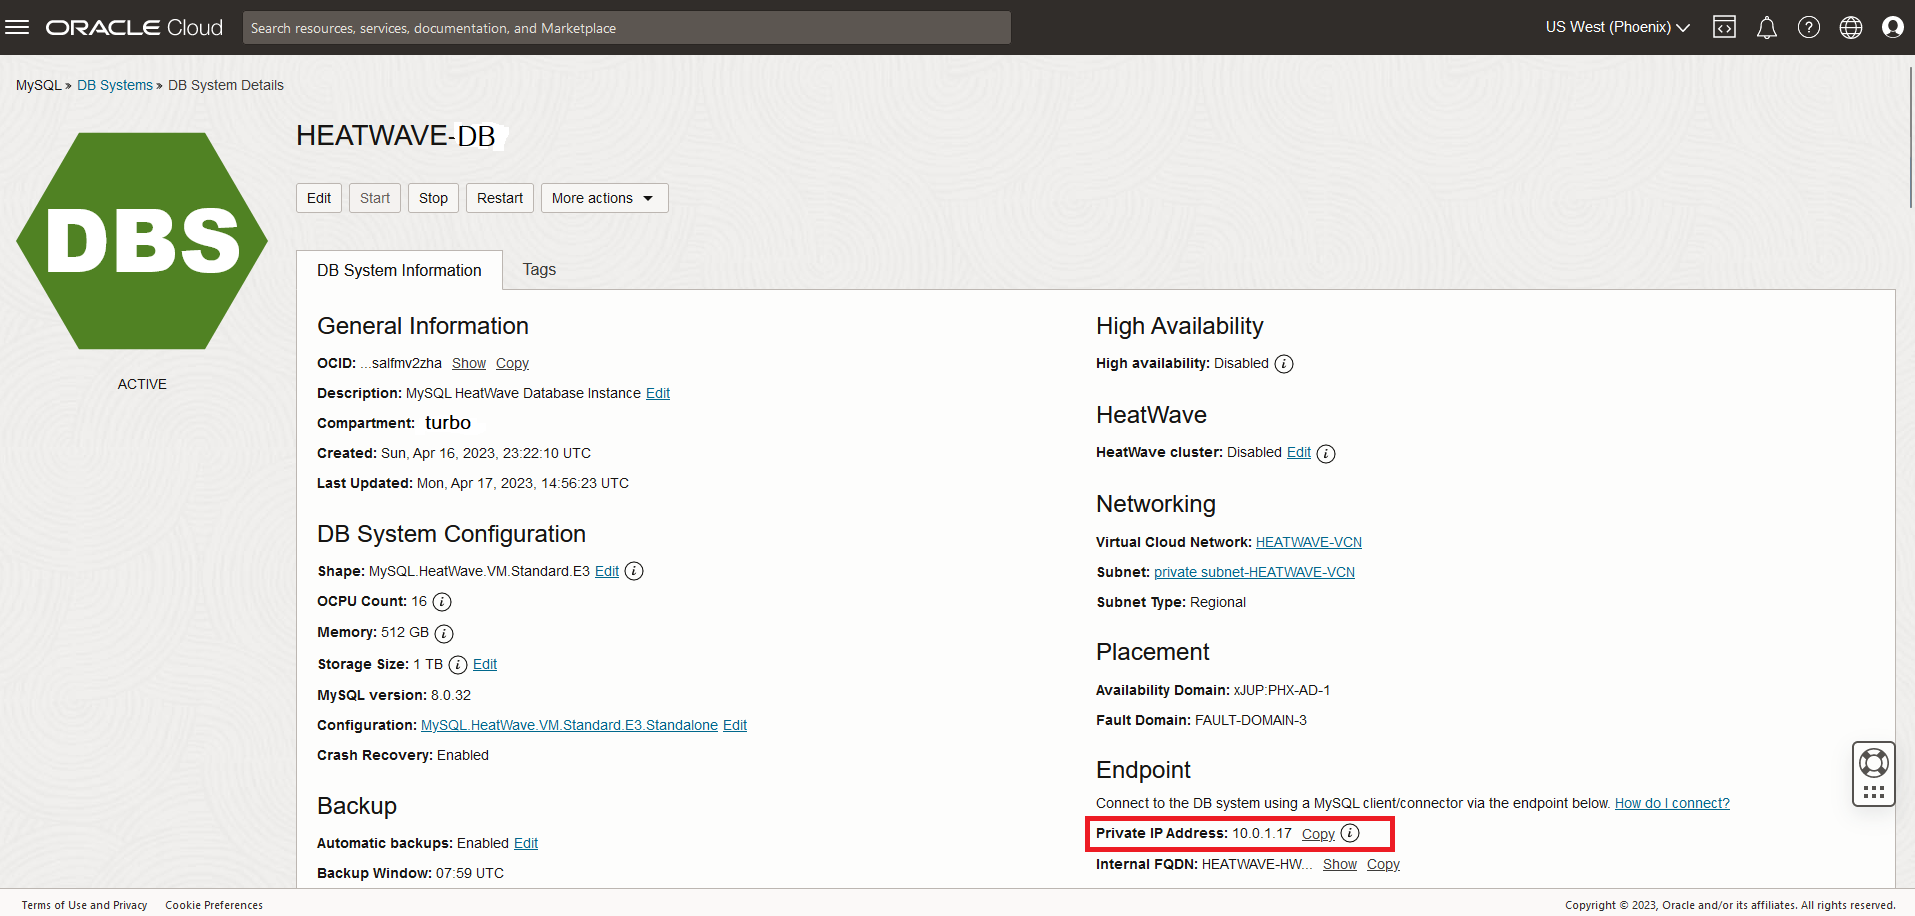
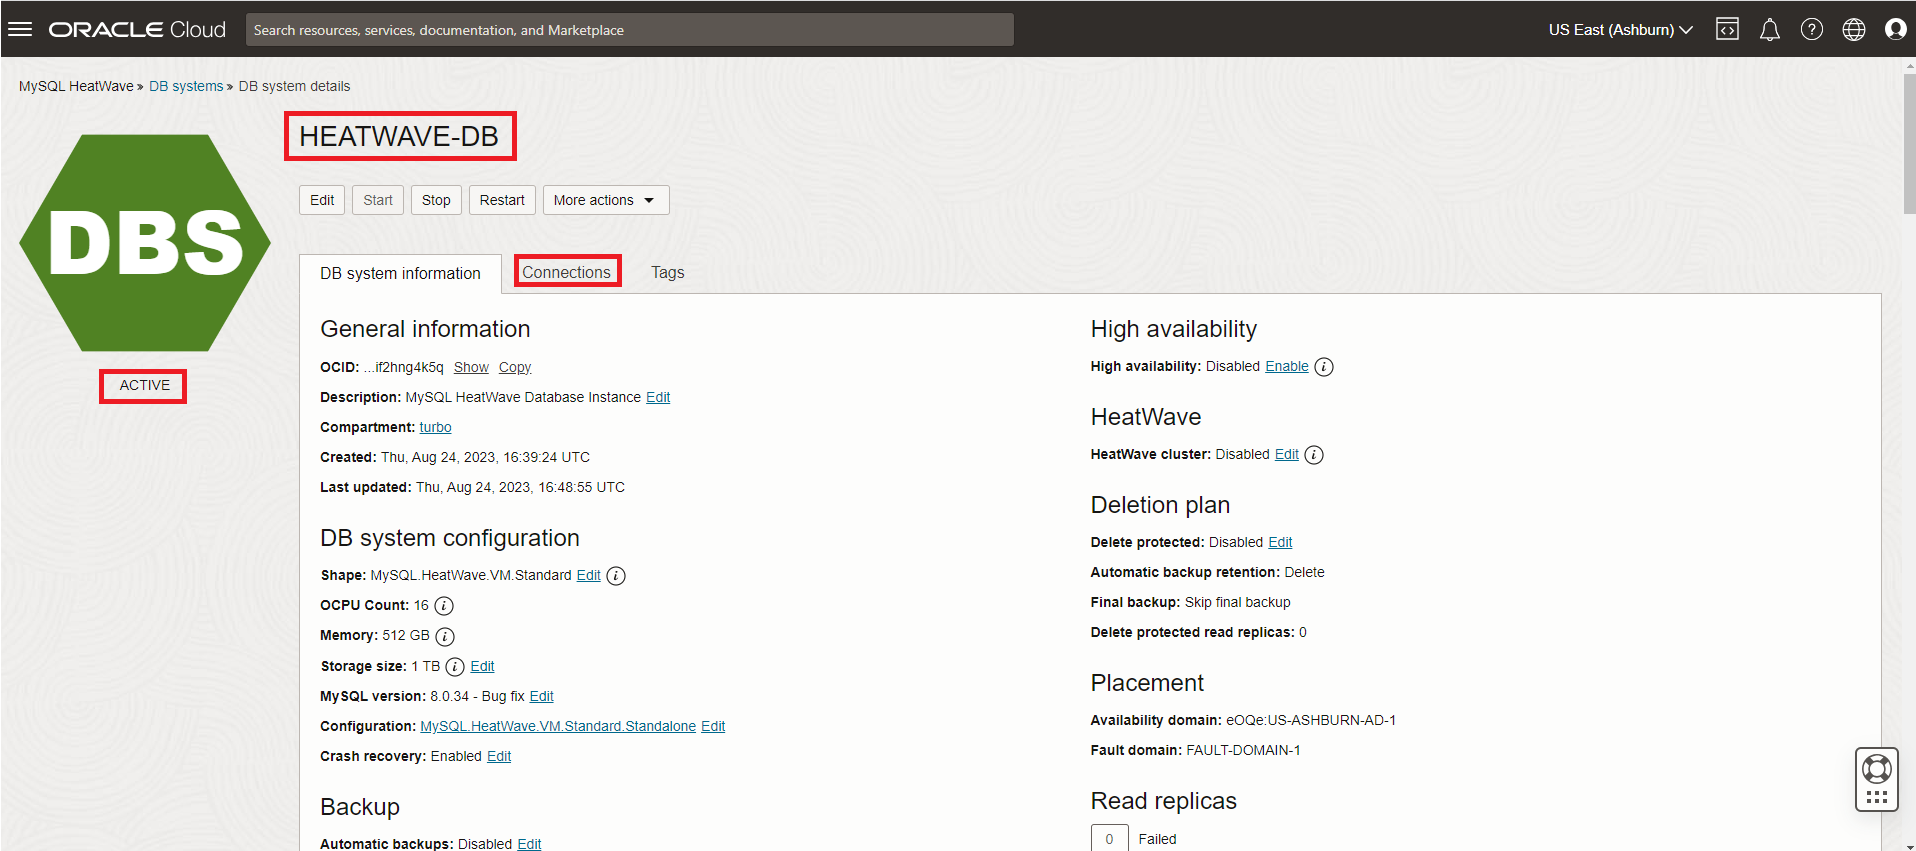
Updated Lab 1
Updated Lab 1

Changed region(s): [[0.0, 0.0, 1.0, 1.0], [0.5546, 0.3361, 0.8935, 1.0], [0.801, 0.7944, 1.0, 1.0]]

diff --git a/create-dbs/create-dbs.md b/create-dbs/create-dbs.md
@@ -57,7 +57,7 @@ In this lab, you will be guided through the following tasks:
     ![menu vcn](./images/home-menu-networking-vcn.png "home menu networking vcn ")
 
     Select the **turbo** compartment
-    ![vcn wizard Select Turbo compartment](./images/vcn-menu-compartmen-root.png "vcn menu compartmen turbo ")
+    ![vcn wizard Select Turbo compartment](./images/vcn-menu-compartmen-turbo.png "vcn menu compartmen turbo ")
 
 3. Select the Click **Start VCN Wizard**
     ![vcn start wizard](./images/vcn-wizard-menu.png "vcn wizard menu")
@@ -267,9 +267,11 @@ In this lab, you will be guided through the following tasks:
 
 14. The state 'Active' indicates that the DB System is ready for use
 
-    On HEATWAVE-HW Page, check the MySQL Endpoint (Private IP Address)
+    ![show active state](./images/mysql-detail-active.png "show active state")
 
-    ![heatwave endpoint](./images/mysql-detail-active.png "heatwave endpoint")
+15. On HEATWAVE-HW Page, select the **Connections** tab and save the MySQL Endpoint (Private IP Address) to use later.
+
+    ![heatwave endpoint](./images/mysql-detail-endpoint.png "heatwave endpoint")
 
 You may now **proceed to the next lab**
 

diff --git a/create-lamp-advanced/create-lamp-advanced.md b/create-lamp-advanced/create-lamp-advanced.md
@@ -106,7 +106,7 @@ You will need a compute Instance to connect to your brand new MySQL database.
     Instances
     ![navigation compute](./images/navigation-compute.png "navigation compute")
 
-6. On Instances in **(root)** Compartment, click  **Create Instance**
+6. On Instances in **(turbo)** Compartment, click  **Create Instance**
     ![compute menu create instance](./images/compute-menu-create-instance.png "ccompute menu create instance ")
 
 7. On Create Compute Instance 
@@ -117,7 +117,7 @@ You will need a compute Instance to connect to your brand new MySQL database.
     <copy>HEATWAVE-Client</copy>
     ```
 
-8. Make sure **(root)** compartment is selected 
+8. Make sure **(turbo)** compartment is selected 
 
 9. On Placement, keep the selected Availability Domain
 

diff --git a/do-lakehouse/do-lakehouse.md b/do-lakehouse/do-lakehouse.md
@@ -31,11 +31,11 @@ In this lab, you will be guided through the following tasks:
 ## Task 2: Create Object Storage bucket
 
 1. Sign in to OCI using your tenant name, user name and password.
-2. Once signed in select the **root** compartment
+2. Once signed in select the **turbo** compartment
 3. From the Console navigation menu, click **Storage**.
 4. Under Object Storage, click Buckets
 
-    **NOTE:** Ensure the correct Compartment is selected : Select **root**
+    **NOTE:** Ensure the correct Compartment is selected : Select **turbo**
 
     ![cloud storage bucket](./images/cloud-storage-bucket.png "cloud-storage-bucket")
 
